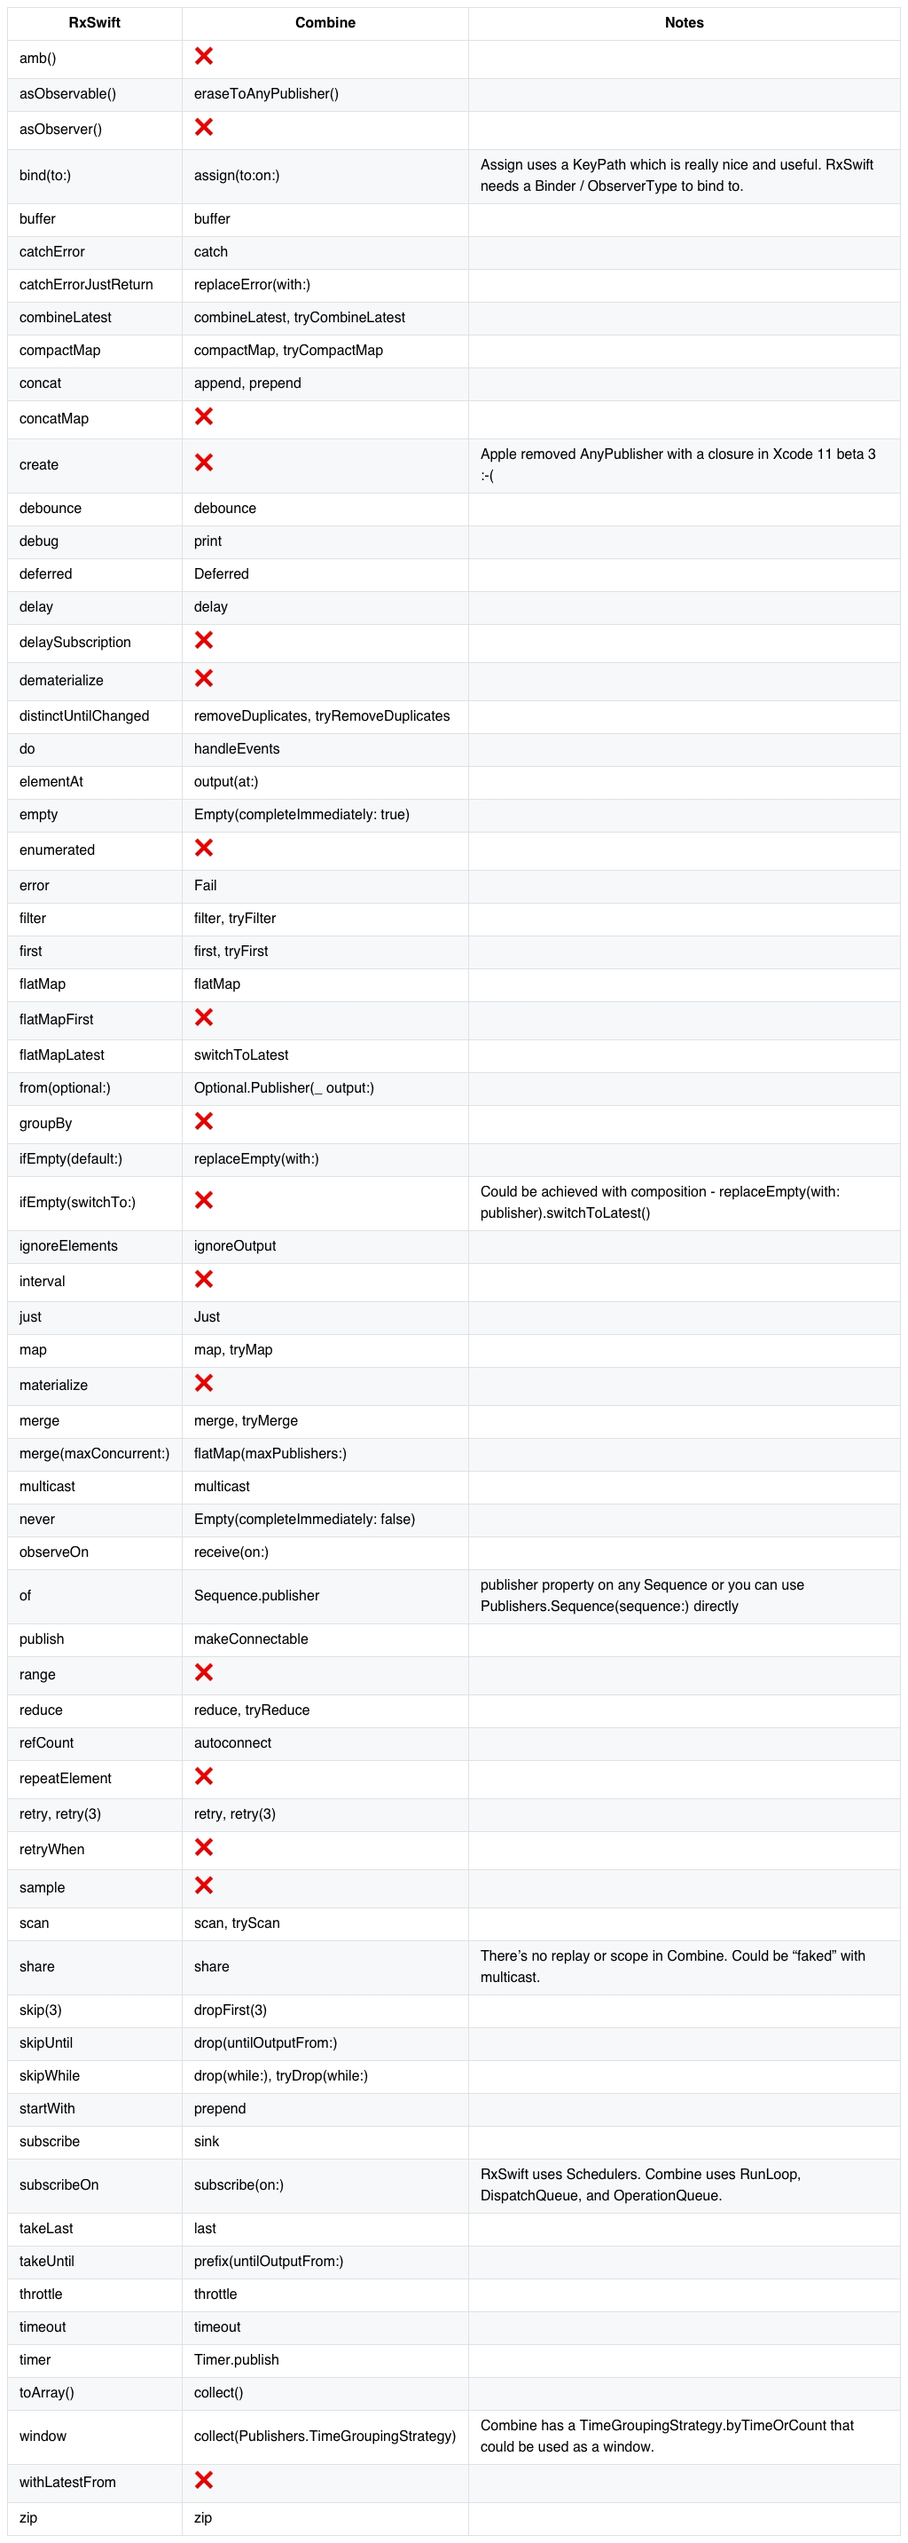
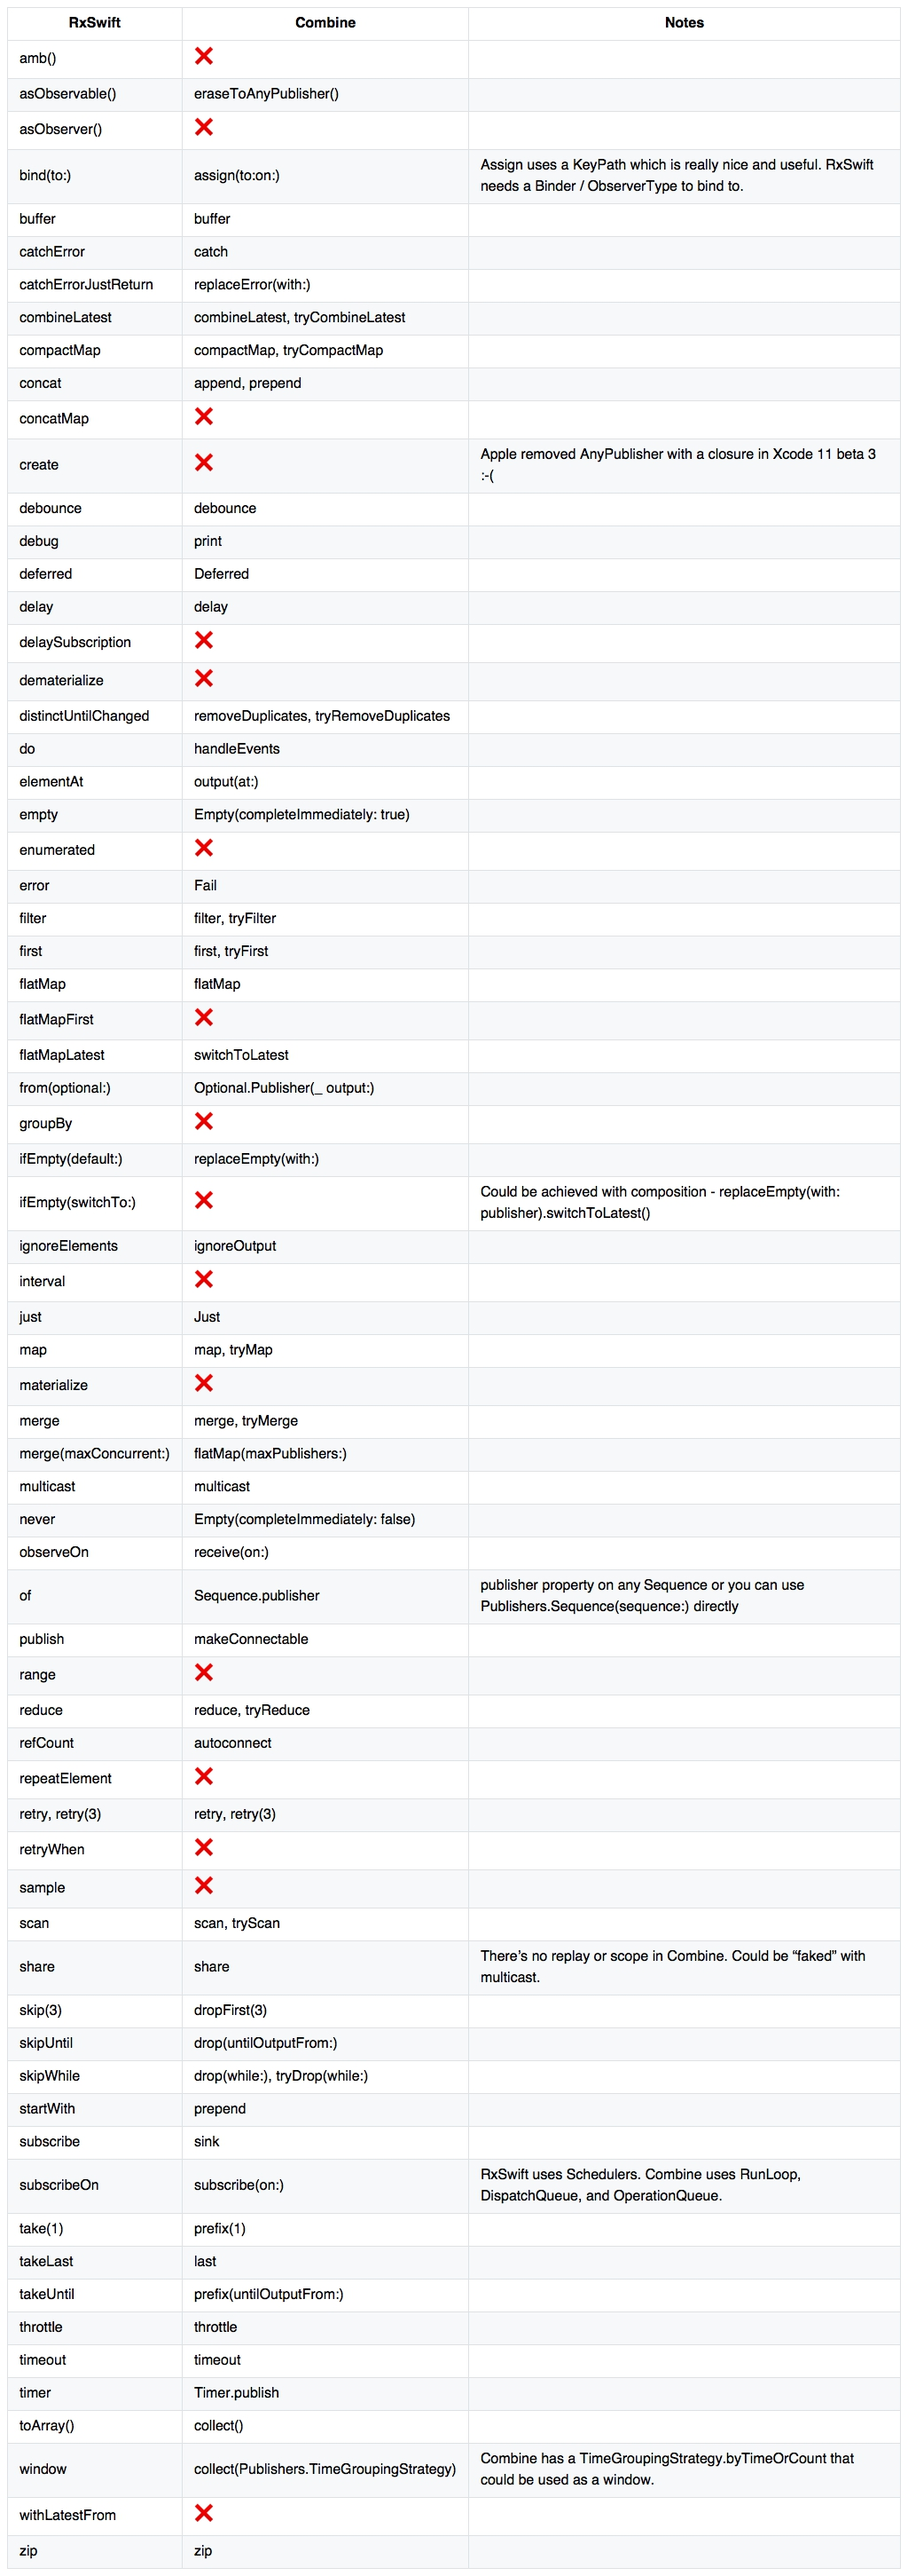
Add take(n)/prefix(n) operator to the table

diff --git a/README.md b/README.md
@@ -107,6 +107,7 @@ It's based on the following blog post: [https://medium.com/gett-engineering/rxsw
 | startWith             | prepend                                  |                                                                                                          |
 | subscribe             | sink                                     |                                                                                                          |
 | subscribeOn           | subscribe(on:)                           | RxSwift uses Schedulers. Combine uses RunLoop, DispatchQueue, and OperationQueue.                        |
+| take(1)               | prefix(1)                                |                                                                                                          |
 | takeLast              | last                                     |                                                                                                          |
 | takeUntil             | prefix(untilOutputFrom:)                 |                                                                                                          |
 | throttle              | throttle                                 |                                                                                                          |
